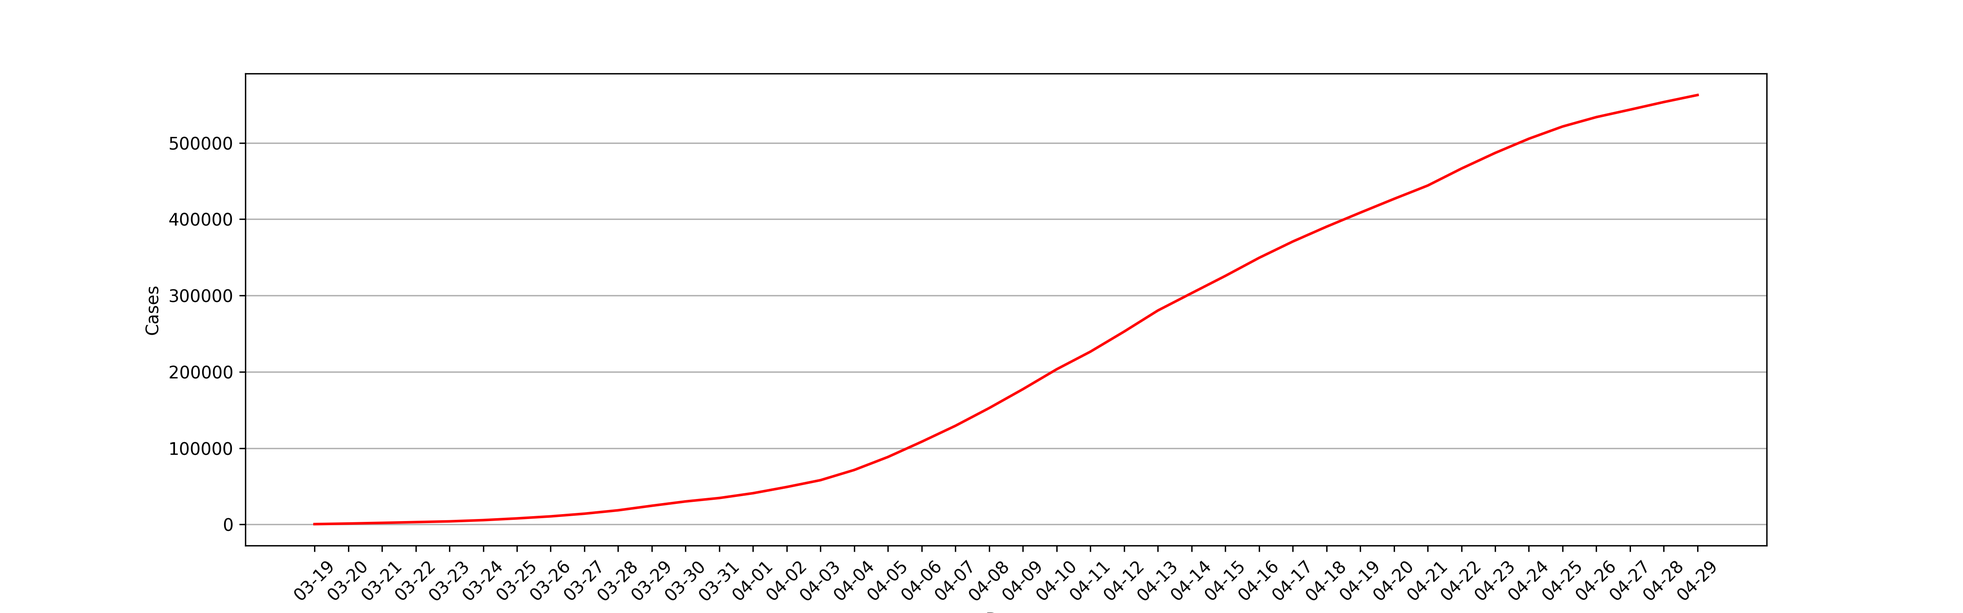
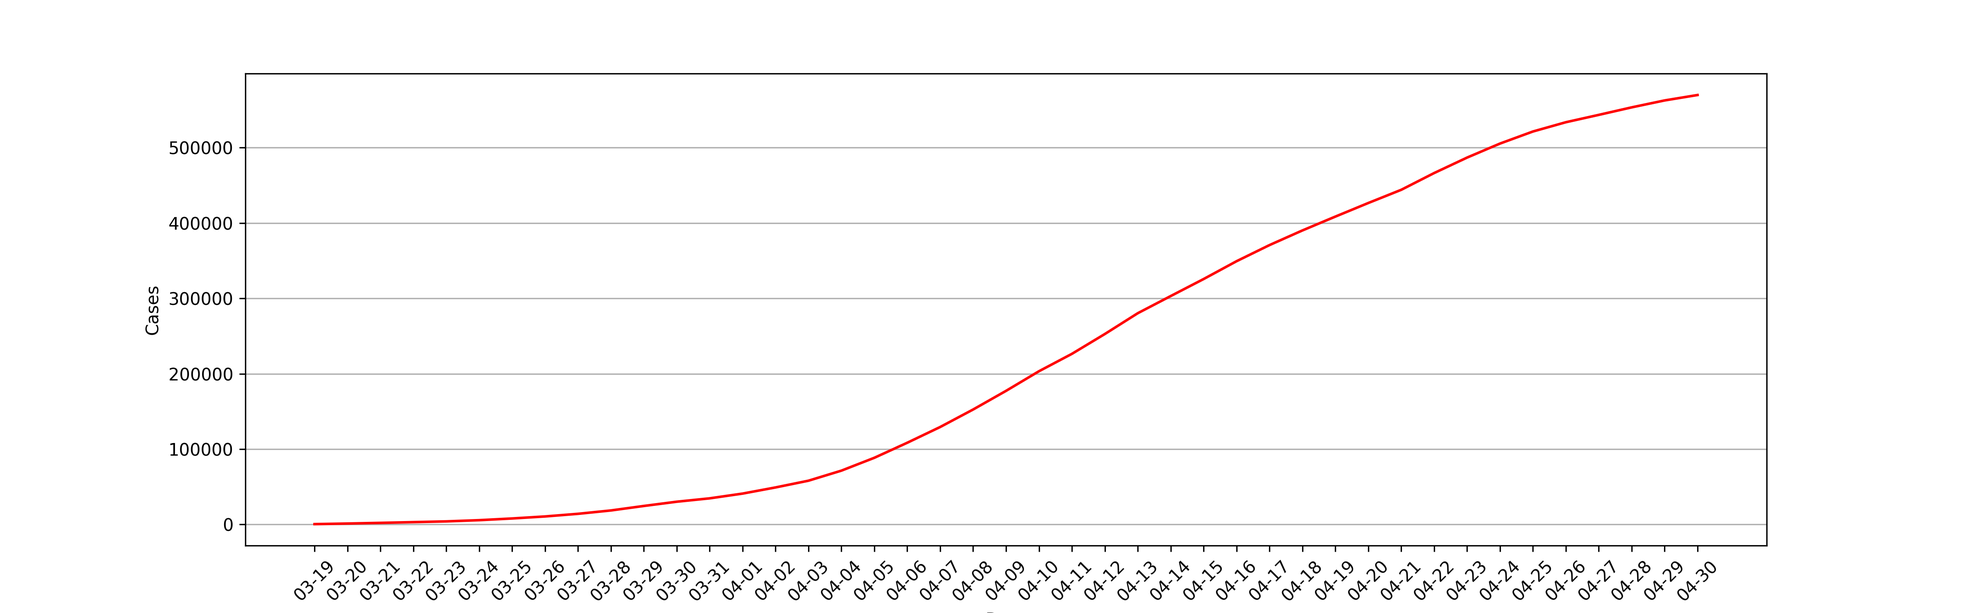
05/01/22 10:40:31

diff --git a/archived_html/a4a961bfa09be8200b3c418c228313e4.html b/archived_html/a4a961bfa09be8200b3c418c228313e4.html
@@ -1,0 +1,151 @@
+<!DOCTYPE html>
+<html lang="zh-Hans">
+<head>
+    <meta charset="utf-8">
+    <meta http-equiv="Content-Security-Policy" content="upgrade-insecure-requests">
+    <meta name="viewport" content="width=device-width, initial-scale=1, maximum-scale=1, user-scalable=no">
+    <meta http-equiv="X-UA-Compatible" content="IE=Edge,chrome=1">
+    <meta http-equiv="Cache-Control" content="no-siteapp" />
+    <meta name="renderer" content="webkit">
+    <meta name="apple-mobile-web-app-capable" content="yes" />
+    <meta name="apple-mobile-web-app-status-bar-style" content="black" />
+    <title>上海2022年4月30日，新增本土新冠肺炎确诊病例788例 新增本土无症状感染者7084例 新增境外输入性新冠肺炎确诊病例1例 新增境外输入性无症状感染者2例__上海市卫生健康委员会</title>
+    <meta name="ColumnDescription" content="新闻发布"><!-- * -->
+    <meta name="ColumnKeywords" content="新闻发布"><!-- * -->
+    <!--<meta name="ColumnType" content=""> * -->
+    <meta name="ColumnName" content="新闻发布"><!-- * -->
+    <meta name="ArticleTitle" content="上海2022年4月30日，新增本土新冠肺炎确诊病例788例 新增本土无症状感染者7084例 新增境外输入性新冠肺炎确诊病例1例 新增境外输入性无症状感染者2例"><!-- * -->
+    <meta name="PubDate" content="2022-05-01"><!-- * -->
+    <meta name="ContentSource" content="上海市卫生健康委员会"><!-- * -->
+    <meta name="Author" content="上海市卫生健康委员会">
+    <meta name="Description" content="" />
+    <meta name="applicable-device" content="pc;mobile">
+    <meta name="location" content="北纬N31°11′51.89″ 东经E121°30′5.42″">
+    <!-- min CSS -->
+    <link rel="stylesheet" href="/assets/css/ETUI/ETUI3.min.css">
+    <!-- Custom CSS -->
+    <link rel="stylesheet" href="/assets/plugin/owl/owl.carousel.css">
+    <link rel="stylesheet" href="/assets/css/style.css">
+    <link rel="stylesheet" href="/assets/css/responsive.css">
+    <link rel="stylesheet" href="/assets/css/ETUI/ETUI3.Utility.css">
+    <!-- icons -->
+    <link rel="shortcut icon" href="/assets/img/ico/favicon.png">
+    <!-- 无障碍工具条 -->
+   <!-- <link rel="stylesheet" href="http://www.shanghai.gov.cn/jhelper_V2.0/jhelper_tool_style.css">
+    <script src="http://www.shanghai.gov.cn/jhelper_V2.0/wsj/jhelper_config.js" charset="gb2312"></script>
+    <noscript>不能读取工具条配置</noscript>
+    <script src="http://www.shanghai.gov.cn/jhelper_V2.0/jhelper_2.0.js" charset="gb2312"></script>
+    <noscript>不能读取工具条</noscript> 
+     -->
+    <script type="text/javascript">
+        function onsubmmit(pageIndex){
+            $("#pageIndex").val(1);
+            $("#searchField").val("0");
+            $("#timeScope").val("0");
+            $("#cmsSearchId").val("0");
+            $("#searchForm").submit();
+        }
+        function onselsubmmit(){
+            $("#pageIndex").val(1);
+            $("#searchForm").submit();
+        }
+        function psubmmit(pageIndex){
+            $("#pageIndex").val(pageIndex);
+            $("#searchForm").submit();
+        }
+        // 栏目
+        function chsubmmit(searchChId){
+            $("#pageIndex").val(1);
+            $("#searchField").val("0");
+            $("#timeScope").val("0");
+            $("#cmsSearchId").val(searchChId);
+            $("#searchForm").submit();
+        }
+    </script> 
+    <!-- 无障碍工具条 -->
+</head>
+<body>
+    <div id="accessNull"></div>
+    <div id="container">
+        <div class="channelinfo hidden"></div>
+        <script src="/assets/js/header.js"></script>
+        <div class="main" id="main">
+            <script src="/assets/js/jiansuo.js"></script>
+            <div class="main-container margin-top-15">
+                <div class="container ">
+                    <div class="relitive">
+                        <ol class="breadcrumb">
+                           <span>您现在所在的位置：</span>
+                            <li><a href="/index.html">首页</a></li>
+                            <li class="active">新闻中心</li>
+                           
+                            <li class="active">新闻发布</li>
+                           
+                        </ol>
+                        <div class="date-se">
+                            <i class="iconfont">&#xe60b;</i> <span id="time"></span>
+                        </div>
+                    </div>
+
+                    <div class="Article">
+                        <h2 id="ivs_title" class="Article-title">上海2022年4月30日，新增本土新冠肺炎确诊病例788例 新增本土无症状感染者7084例 新增境外输入性新冠肺炎确诊病例1例 新增境外输入性无症状感染者2例</br>
+                         <h2 class="Article-title">
+                            <small id="ivs_date" class="Article-time">( 2022-05-01)</small>
+                        </h2>
+                        <div id="ivs_player" style="text-align:center;"></div>
+                        <div id="ivs_content" class="Article_content">
+                           
+                                 <p style="margin-top:10px;text-indent:40px"><span style=";font-family:仿宋_GB2312;font-size:20px"><span style="font-family:仿宋_GB2312">市卫健委今早（</span><span style="font-family:仿宋_GB2312">5月1日）通报：2022年4月30日0—24时，新增本土新冠肺炎确诊病例788和无症状感染者7084例，其中683例确诊病例为既往无症状感染者转归，105例确诊病例和7084例无症状感染者在隔离管控中发现。新增境外输入性新冠肺炎确诊病例1例和无症状感染者2例，均在闭环管控中发现。</span></span></p><p style="margin-top:10px;text-indent:40px"><span style=";font-family:仿宋_GB2312;font-size:20px">2022年4月30日0—24时，新增本土新冠肺炎确诊病例788例，含683例由既往无症状感染者转为确诊病例。新增治愈出院3055例。</span></p><p style="margin-top:10px;text-indent:40px"><strong><span style=";font-family:黑体;font-size:20px"><span style="font-family:黑体">病例</span><span style="font-family:黑体">1—病例15</span></span></strong><span style=";font-family:仿宋_GB2312;font-size:20px">，居住于浦东新区，</span><strong><span style=";font-family:黑体;font-size:20px"><span style="font-family:黑体">病例</span><span style="font-family:黑体">16</span></span></strong><span style=";font-family:仿宋_GB2312;font-size:20px">，居住于黄浦区，</span><strong><span style=";font-family:黑体;font-size:20px"><span style="font-family:黑体">病例</span><span style="font-family:黑体">17—病例26</span></span></strong><span style=";font-family:仿宋_GB2312;font-size:20px">，居住于徐汇区，</span><strong><span style=";font-family:黑体;font-size:20px"><span style="font-family:黑体">病例</span><span style="font-family:黑体">27</span></span></strong><span style=";font-family:仿宋_GB2312;font-size:20px">，居住于长宁区，</span><strong><span style=";font-family:黑体;font-size:20px"><span style="font-family:黑体">病例</span><span style="font-family:黑体">28—病例44</span></span></strong><span style=";font-family:仿宋_GB2312;font-size:20px">，居住于静安区，</span><strong><span style=";font-family:黑体;font-size:20px"><span style="font-family:黑体">病例</span><span style="font-family:黑体">45—病例49</span></span></strong><span style=";font-family:仿宋_GB2312;font-size:20px">，居住于普陀区，</span><strong><span style=";font-family:黑体;font-size:20px"><span style="font-family:黑体">病例</span><span style="font-family:黑体">50—病例60</span></span></strong><span style=";font-family:仿宋_GB2312;font-size:20px">，居住于虹口区，</span><strong><span style=";font-family:黑体;font-size:20px"><span style="font-family:黑体">病例</span><span style="font-family:黑体">61、病例62</span></span></strong><span style=";font-family:仿宋_GB2312;font-size:20px">，居住于杨浦区，</span><strong><span style=";font-family:黑体;font-size:20px"><span style="font-family:黑体">病例</span><span style="font-family:黑体">63—病例65</span></span></strong><span style=";font-family:仿宋_GB2312;font-size:20px">，居住于闵行区，</span><strong><span style=";font-family:黑体;font-size:20px"><span style="font-family:黑体">病例</span><span style="font-family:黑体">66—病例89</span></span></strong><span style=";font-family:仿宋_GB2312;font-size:20px">，居住于宝山区，</span><strong><span style=";font-family:黑体;font-size:20px"><span style="font-family:黑体">病例</span><span style="font-family:黑体">90—病例92</span></span></strong><span style=";font-family:仿宋_GB2312;font-size:20px">，居住于嘉定区，</span><strong><span style=";font-family:黑体;font-size:20px"><span style="font-family:黑体">病例</span><span style="font-family:黑体">93—病例102</span></span></strong><span style=";font-family:仿宋_GB2312;font-size:20px">，居住于松江区，</span><strong><span style=";font-family:黑体;font-size:20px"><span style="font-family:黑体">病例</span><span style="font-family:黑体">103、病例104</span></span></strong><span style=";font-family:仿宋_GB2312;font-size:20px">，居住于青浦区，</span><strong><span style=";font-family:黑体;font-size:20px"><span style="font-family:黑体">病例</span><span style="font-family:黑体">105</span></span></strong><span style=";font-family:仿宋_GB2312;font-size:20px">，居住于奉贤区，均为本市闭环隔离管控人员，其间新冠病毒核酸检测结果异常，经疾控中心复核结果为阳性。经市级专家会诊，综合流行病学史、临床症状、实验室检测和影像学检查结果等，诊断为确诊病例。</span></p><p style="margin-top:10px;text-indent:40px"><strong><span style=";font-family:黑体;font-size:20px"><span style="font-family:黑体">病例</span><span style="font-family:黑体">106—病例127</span></span></strong><span style=";font-family:仿宋_GB2312;font-size:20px">，居住于浦东新区，</span><strong><span style=";font-family:黑体;font-size:20px"><span style="font-family:黑体">病例</span><span style="font-family:黑体">128—病例236</span></span></strong><span style=";font-family:仿宋_GB2312;font-size:20px">，居住于黄浦区，</span><strong><span style=";font-family:黑体;font-size:20px"><span style="font-family:黑体">病例</span><span style="font-family:黑体">237—病例362</span></span></strong><span style=";font-family:仿宋_GB2312;font-size:20px">，居住于徐汇区，</span><strong><span style=";font-family:黑体;font-size:20px"><span style="font-family:黑体">病例</span><span style="font-family:黑体">363—病例401</span></span></strong><span style=";font-family:仿宋_GB2312;font-size:20px">，居住于长宁区，</span><strong><span style=";font-family:黑体;font-size:20px"><span style="font-family:黑体">病例</span><span style="font-family:黑体">402—病例494</span></span></strong><span style=";font-family:仿宋_GB2312;font-size:20px">，居住于静安区，</span><strong><span style=";font-family:黑体;font-size:20px"><span style="font-family:黑体">病例</span><span style="font-family:黑体">495—病例516</span></span></strong><span style=";font-family:仿宋_GB2312;font-size:20px">，居住于普陀区，</span><strong><span style=";font-family:黑体;font-size:20px"><span style="font-family:黑体">病例</span><span style="font-family:黑体">517—病例552</span></span></strong><span style=";font-family:仿宋_GB2312;font-size:20px">，居住于虹口区，</span><strong><span style=";font-family:黑体;font-size:20px"><span style="font-family:黑体">病例</span><span style="font-family:黑体">553—病例572</span></span></strong><span style=";font-family:仿宋_GB2312;font-size:20px">，居住于杨浦区，</span><strong><span style=";font-family:黑体;font-size:20px"><span style="font-family:黑体">病例</span><span style="font-family:黑体">573—病例622</span></span></strong><span style=";font-family:仿宋_GB2312;font-size:20px">，居住于闵行区，</span><strong><span style=";font-family:黑体;font-size:20px"><span style="font-family:黑体">病例</span><span style="font-family:黑体">623—病例710</span></span></strong><span style=";font-family:仿宋_GB2312;font-size:20px">，居住于宝山区，</span><strong><span style=";font-family:黑体;font-size:20px"><span style="font-family:黑体">病例</span><span style="font-family:黑体">711—病例748</span></span></strong><span style=";font-family:仿宋_GB2312;font-size:20px">，居住于嘉定区，</span><strong><span style=";font-family:黑体;font-size:20px"><span style="font-family:黑体">病例</span><span style="font-family:黑体">749—病例767</span></span></strong><span style=";font-family:仿宋_GB2312;font-size:20px">，居住于松江区，</span><strong><span style=";font-family:黑体;font-size:20px"><span style="font-family:黑体">病例</span><span style="font-family:黑体">768—病例786</span></span></strong><span style=";font-family:仿宋_GB2312;font-size:20px">，居住于青浦区，</span><strong><span style=";font-family:黑体;font-size:20px"><span style="font-family:黑体">病例</span><span style="font-family:黑体">787</span></span></strong><span style=";font-family:仿宋_GB2312;font-size:20px">，居住于奉贤区，</span><strong><span style=";font-family:黑体;font-size:20px"><span style="font-family:黑体">病例</span><span style="font-family:黑体">788</span></span></strong><span style=";font-family:仿宋_GB2312;font-size:20px">，居住于崇明区，为此前报告的本土无症状感染者。经市级专家会诊，综合流行病学史、临床症状、实验室检测和影像学检查结果等，诊断为确诊病例。</span></p><p style="margin-top:10px;text-indent:40px"><span style=";font-family:仿宋_GB2312;font-size:20px">2022年4月30日0—24时，新增本土死亡38例。平均年龄80.9岁，最小年龄50岁，最大年龄97岁。38位患者均有较为严重的急慢性基础疾病，包括急性心肌梗死、肺栓塞、冠心病、扩张性心肌病、心功能不全IV级、心律失常、高血压3级（极高危）、慢性阻塞性肺病、脑梗死及后遗症、阿尔兹海默症、糖尿病、尿毒症、肝硬化失代偿期、晚期恶性肿瘤等。患者入院后，原发疾病加重，经抢救无效死亡。死亡的直接原因为原发基础疾病。</span></p><p style="margin-top:10px;text-indent:40px"><span style=";font-family:仿宋_GB2312;font-size:20px">2022年4月30日0—24时，新增本土无症状感染者7084例。</span></p><p style="text-indent:40px"><strong><span style=";font-family:黑体;font-size:20px"><span style="font-family:黑体">无症状感染者</span><span style="font-family:黑体">1—无症状感染者1588</span></span></strong><span style=";font-family:仿宋_GB2312;font-size:20px">，居住于浦东新区，</span><strong><span style=";font-family:黑体;font-size:20px"><span style="font-family:黑体">无症状感染者</span><span style="font-family:黑体">1589—无症状感染者2634</span></span></strong><span style=";font-family:仿宋_GB2312;font-size:20px">，居住于黄浦区，</span><strong><span style=";font-family:黑体;font-size:20px"><span style="font-family:黑体">无症状感染者</span><span style="font-family:黑体">2635—无症状感染者2986</span></span></strong><span style=";font-family:仿宋_GB2312;font-size:20px">，居住于徐汇区，</span><strong><span style=";font-family:黑体;font-size:20px"><span style="font-family:黑体">无症状感染者</span><span style="font-family:黑体">2987—无症状感染者3127</span></span></strong><span style=";font-family:仿宋_GB2312;font-size:20px">，居住于长宁区，</span><strong><span style=";font-family:黑体;font-size:20px"><span style="font-family:黑体">无症状感染者</span><span style="font-family:黑体">3128—无症状感染者4013</span></span></strong><span style=";font-family:仿宋_GB2312;font-size:20px">，居住于静安区，</span><strong><span style=";font-family:黑体;font-size:20px"><span style="font-family:黑体">无症状感染者</span><span style="font-family:黑体">4014—无症状感染者4100</span></span></strong><span style=";font-family:仿宋_GB2312;font-size:20px">，居住于普陀区，</span><strong><span style=";font-family:黑体;font-size:20px"><span style="font-family:黑体">无症状感染者</span><span style="font-family:黑体">4101—无症状感染者4644</span></span></strong><span style=";font-family:仿宋_GB2312;font-size:20px">，居住于虹口区，</span><strong><span style=";font-family:黑体;font-size:20px"><span style="font-family:黑体">无症状感染者</span><span style="font-family:黑体">4645—无症状感染者4964</span></span></strong><span style=";font-family:仿宋_GB2312;font-size:20px">，居住于杨浦区，</span><strong><span style=";font-family:黑体;font-size:20px"><span style="font-family:黑体">无症状感染者</span><span style="font-family:黑体">4965—无症状感染者5342</span></span></strong><span style=";font-family:仿宋_GB2312;font-size:20px">，居住于闵行区，</span><strong><span style=";font-family:黑体;font-size:20px"><span style="font-family:黑体">无症状感染者</span><span style="font-family:黑体">5343—无症状感染者6363</span></span></strong><span style=";font-family:仿宋_GB2312;font-size:20px">，居住于宝山区，</span><strong><span style=";font-family:黑体;font-size:20px"><span style="font-family:黑体">无症状感染者</span><span style="font-family:黑体">6364—无症状感染者6581</span></span></strong><span style=";font-family:仿宋_GB2312;font-size:20px">，居住于嘉定区，</span><strong><span style=";font-family:黑体;font-size:20px"><span style="font-family:黑体">无症状感染者</span><span style="font-family:黑体">6582—无症状感染者6592</span></span></strong><span style=";font-family:仿宋_GB2312;font-size:20px">，居住于金山区，</span><strong><span style=";font-family:黑体;font-size:20px"><span style="font-family:黑体">无症状感染者</span><span style="font-family:黑体">6593—无症状感染者6668</span></span></strong><span style=";font-family:仿宋_GB2312;font-size:20px">，居住于松江区，</span><strong><span style=";font-family:黑体;font-size:20px"><span style="font-family:黑体">无症状感染者</span><span style="font-family:黑体">6669—无症状感染者6775</span></span></strong><span style=";font-family:仿宋_GB2312;font-size:20px">，居住于青浦区，</span><strong><span style=";font-family:黑体;font-size:20px"><span style="font-family:黑体">无症状感染者</span><span style="font-family:黑体">6776、无症状感染者6777</span></span></strong><span style=";font-family:仿宋_GB2312;font-size:20px">，居住于奉贤区，</span><strong><span style=";font-family:黑体;font-size:20px"><span style="font-family:黑体">无症状感染者</span><span style="font-family:黑体">6778—无症状感染者7084</span></span></strong><span style=";font-family:仿宋_GB2312;font-size:20px">，居住于崇明区，</span><span style=";font-family:仿宋_GB2312;font-size:20px">均为本市闭环隔离管控人员，其间新冠病毒核酸检测结果异常，经疾控中心复核结果为阳性，诊断为无症状感染者。</span></p><p style="text-indent:40px"><span style=";font-family:仿宋_GB2312;font-size:20px">2022年4月30日0—24时，通过口岸联防联控机制，报告1例新增境外输入性新冠肺炎确诊病例。新增治愈出院1例，来自加拿大。</span></p><p style="text-indent:40px"><strong><span style="font-family: 黑体;font-size: 20px">该病例</span></strong><span style=";font-family:仿宋_GB2312;font-size:20px"><span style="font-family:仿宋_GB2312">为美国籍，在加拿大生活，自加拿大出发，于</span><span style="font-family:仿宋_GB2312">2022年4月15日抵达上海浦东国际机场，入关后即被集中隔离观察，解除隔离前出现症状，即送指定医疗机构隔离排查。经专家组会诊，综合流行病学史、临床症状、实验室检测和影像学检查结果等，诊断为确诊病例。</span></span></p><p style="text-indent:40px"><span style=";font-family:仿宋_GB2312;font-size:20px">该境外输入性确诊病例已转至定点医疗机构救治，同航班密切接触者此前均已落实集中隔离观察。</span></p><p style="text-indent:40px"><span style=";font-family:仿宋_GB2312;font-size:20px">2022年4月30日0—24时，新增境外输入性无症状感染者2例。</span></p><p style="text-indent:40px"><strong><span style="font-family: 黑体;font-size: 20px"><span style="font-family:黑体">无症状感染者</span><span style="font-family:黑体">1</span></span></strong><span style=";font-family:仿宋_GB2312;font-size:20px"><span style="font-family:仿宋_GB2312">为中国籍，在加拿大留学，自加拿大出发，于</span><span style="font-family:仿宋_GB2312">2022年4月25日抵达上海浦东国际机场，入关后即被集中隔离观察，其间例行核酸检测异常。经排查，区疾控中心新冠病毒核酸检测结果为阳性。综合流行病学史、临床症状、实验室检测和影像学检查结果等，诊断为无症状感染者。</span></span></p><p style="text-indent:40px"><strong><span style="font-family: 黑体;font-size: 20px"><span style="font-family:黑体">无症状感染者</span><span style="font-family:黑体">2</span></span></strong><span style=";font-family:仿宋_GB2312;font-size:20px"><span style="font-family:仿宋_GB2312">为中国籍，在英国留学，自英国出发，经丹麦转机，于</span><span style="font-family:仿宋_GB2312">2022年4月27日抵达上海浦东国际机场，入关后即被集中隔离观察，其间例行核酸检测异常。经排查，区疾控中心新冠病毒核酸检测结果为阳性。综合流行病学史、临床症状、实验室检测和影像学检查结果等，诊断为无症状感染者。</span></span></p><p style="text-indent:40px"><span style=";font-family:仿宋_GB2312;font-size:20px">2例境外输入性无症状感染者已转至定点医疗机构医学观察，同航班密切接触者此前均已落实集中隔离观察。</span></p><p style="text-indent:40px"><span style=";font-family:仿宋_GB2312;font-size:20px">2022年4月30日0—24时，解除医学观察无症状感染者16023例，其中本土无症状感染者16021例，境外输入性无症状感染者2例。</span></p><p style="margin-top:10px;text-indent:40px;vertical-align:baseline"><span style=";font-family:仿宋_GB2312;font-size:20px">2022年2月26日0时至2022年4月30日24时，累计本土确诊53364例，治愈出院32273例，在院治疗20669例（其中重型342例，危重型61例），死亡422例。现有待排查的疑似病例0例。</span></p><p style="margin-top:10px;text-indent:40px;vertical-align:baseline"><span style=";font-family:仿宋_GB2312;font-size:20px"><span style="font-family:仿宋_GB2312">截至</span><span style="font-family:仿宋_GB2312">2022年4月30日24时，累计境外输入性确诊病例4</span></span><span style=";font-family:仿宋_GB2312;font-size:20px">5</span><span style=";font-family:仿宋_GB2312;font-size:20px">83例，出院4578例，在院治疗5例。现有待排查的疑似病例</span><span style=";font-family:仿宋_GB2312;font-size:20px">0</span><span style=";font-family:仿宋_GB2312;font-size:20px">例。</span></p><p style="margin-top:10px;vertical-align:baseline"><span style=";font-family:仿宋_GB2312;font-size:20px">&nbsp;</span></p><p style="margin-top:10px;vertical-align:baseline"><span style=";font-family:仿宋_GB2312;font-size:20px">&nbsp;</span></p><table cellspacing="0" width="544"><tbody><tr style="height:24px" class="firstRow"><td width="379" valign="center" colspan="2" style="padding: 0px 7px; border-width: 1px; border-color: windowtext; border-style: solid;"><p style="text-align:center;vertical-align:baseline"><strong><span style="font-family: 仿宋_GB2312;font-size: 19px">区域</span></strong></p></td><td width="165" valign="center" style="padding: 0px 7px; border-width: 1px; border-color: windowtext; border-style: solid;"><p style="text-align:center;vertical-align:baseline"><strong><span style="font-family: 仿宋_GB2312;font-size: 19px">在院治疗确诊病例</span></strong></p></td></tr><tr style="height:42px"><td width="213" valign="center" rowspan="4" style="padding: 0px 7px; border-width: 1px; border-left-color: windowtext; border-right-color: windowtext; border-style: solid; border-top-color: initial; border-bottom-color: windowtext;"><p style="text-align:center;vertical-align:baseline"><span style="font-family:仿宋_GB2312;font-size:19px">境外输入人员</span></p><p style="text-align:center;vertical-align:baseline"><span style="font-family:仿宋_GB2312;font-size:19px">（按输入地分）</span></p></td><td width="165" valign="top" style="padding: 0px 7px; border-width: 1px; border-style: solid; border-left-color: initial; border-right-color: windowtext; border-top-color: initial; border-bottom-color: windowtext;"><p style=";text-align:center;vertical-align:middle"><span style="font-family: 仿宋_GB2312;font-size: 19px">加拿大</span></p></td><td width="165" valign="top" style="padding: 0px 7px; border-width: 1px; border-style: solid; border-left-color: initial; border-right-color: windowtext; border-top-color: windowtext; border-bottom-color: windowtext;"><p style=";text-align:center;vertical-align:middle"><span style="font-family: 仿宋_GB2312;font-size: 19px">2</span></p></td></tr><tr style="height:33px"><td width="165" valign="top" style="padding: 0px 7px; border-width: 1px; border-style: solid; border-left-color: initial; border-right-color: windowtext; border-top-color: initial; border-bottom-color: windowtext;"><p style=";text-align:center;vertical-align:middle"><span style="font-family: 仿宋_GB2312;font-size: 19px">法国</span></p></td><td width="165" valign="top" style="padding: 0px 7px; border-width: 1px; border-style: solid; border-left-color: initial; border-right-color: windowtext; border-top-color: initial; border-bottom-color: windowtext;"><p style=";text-align:center;vertical-align:middle"><span style="font-family: 仿宋_GB2312;font-size: 19px">1</span></p></td></tr><tr style="height:33px"><td width="165" valign="top" style="padding: 0px 7px; border-width: 1px; border-style: solid; border-left-color: initial; border-right-color: windowtext; border-top-color: initial; border-bottom-color: windowtext;"><p style=";text-align:center;vertical-align:middle"><span style="font-family: 仿宋_GB2312;font-size: 19px">乌干达</span></p></td><td width="165" valign="top" style="padding: 0px 7px; border-width: 1px; border-style: solid; border-left-color: initial; border-right-color: windowtext; border-top-color: initial; border-bottom-color: windowtext;"><p style=";text-align:center;vertical-align:middle"><span style="font-family: 仿宋_GB2312;font-size: 19px">1</span></p></td></tr><tr style="height:33px"><td width="165" valign="top" style="padding: 0px 7px; border-width: 1px; border-style: solid; border-left-color: initial; border-right-color: windowtext; border-top-color: initial; border-bottom-color: windowtext;"><p style=";text-align:center;vertical-align:middle"><span style="font-family: 仿宋_GB2312;font-size: 19px">香港特别行政区</span></p></td><td width="165" valign="top" style="padding: 0px 7px; border-width: 1px; border-style: solid; border-left-color: initial; border-right-color: windowtext; border-top-color: initial; border-bottom-color: windowtext;"><p style=";text-align:center;vertical-align:middle"><span style="font-family: 仿宋_GB2312;font-size: 19px">1</span></p></td></tr><tr style="height:33px"><td width="213" valign="center" rowspan="16" style="padding: 0px 7px; border-width: 1px; border-left-color: windowtext; border-right-color: windowtext; border-style: solid; border-top-color: initial; border-bottom-color: windowtext;"><p style="text-indent:19px;vertical-align:baseline"><span style="font-family:仿宋_GB2312;font-size:19px">本市居住或工作地</span></p></td><td width="165" valign="center" style="padding: 0px 7px; border-width: 1px; border-left-color: windowtext; border-right-color: windowtext; border-style: solid; border-top-color: initial; border-bottom-color: windowtext;"><p style=";text-align:center;vertical-align:middle"><span style="font-family: 仿宋_GB2312;font-size: 19px">浦东</span></p></td><td width="165" valign="center" style="padding: 0px 7px; border-width: 1px; border-left-color: windowtext; border-right-color: windowtext; border-style: solid; border-top-color: initial; border-bottom-color: windowtext;"><p style="text-align:center"><span style="font-family: 仿宋_GB2312;font-size: 19px">3490</span></p></td></tr><tr style="height:33px"><td width="165" valign="center" style="padding: 0px 7px; border-width: 1px; border-left-color: windowtext; border-right-color: windowtext; border-style: solid; border-top-color: initial; border-bottom-color: windowtext;"><p style=";text-align:center;vertical-align:middle"><span style="font-family: 仿宋_GB2312;font-size: 19px">黄浦</span></p></td><td width="165" valign="center" style="padding: 0px 7px; border-width: 1px; border-left-color: windowtext; border-right-color: windowtext; border-style: solid; border-top-color: initial; border-bottom-color: windowtext;"><p style="text-align:center"><span style="font-family: 仿宋_GB2312;font-size: 19px">3043</span></p></td></tr><tr style="height:33px"><td width="165" valign="center" style="padding: 0px 7px; border-width: 1px; border-left-color: windowtext; border-right-color: windowtext; border-style: solid; border-top-color: initial; border-bottom-color: windowtext;"><p style=";text-align:center;vertical-align:middle"><span style="font-family: 仿宋_GB2312;font-size: 19px">徐汇</span></p></td><td width="165" valign="center" style="padding: 0px 7px; border-width: 1px; border-left-color: windowtext; border-right-color: windowtext; border-style: solid; border-top-color: initial; border-bottom-color: windowtext;"><p style="text-align:center"><span style="font-family: 仿宋_GB2312;font-size: 19px">2641</span></p></td></tr><tr style="height:33px"><td width="165" valign="center" style="padding: 0px 7px; border-width: 1px; border-left-color: windowtext; border-right-color: windowtext; border-style: solid; border-top-color: initial; border-bottom-color: windowtext;"><p style=";text-align:center;vertical-align:middle"><span style="font-family: 仿宋_GB2312;font-size: 19px">长宁</span></p></td><td width="165" valign="center" style="padding: 0px 7px; border-width: 1px; border-left-color: windowtext; border-right-color: windowtext; border-style: solid; border-top-color: initial; border-bottom-color: windowtext;"><p style="text-align:center"><span style="font-family: 仿宋_GB2312;font-size: 19px">1132</span></p></td></tr><tr style="height:33px"><td width="165" valign="center" style="padding: 0px 7px; border-width: 1px; border-left-color: windowtext; border-right-color: windowtext; border-style: solid; border-top-color: initial; border-bottom-color: windowtext;"><p style=";text-align:center;vertical-align:middle"><span style="font-family: 仿宋_GB2312;font-size: 19px">静安</span></p></td><td width="165" valign="center" style="padding: 0px 7px; border-width: 1px; border-left-color: windowtext; border-right-color: windowtext; border-style: solid; border-top-color: initial; border-bottom-color: windowtext;"><p style="text-align:center"><span style="font-family: 仿宋_GB2312;font-size: 19px">1735</span></p></td></tr><tr style="height:33px"><td width="165" valign="center" style="padding: 0px 7px; border-width: 1px; border-left-color: windowtext; border-right-color: windowtext; border-style: solid; border-top-color: initial; border-bottom-color: windowtext;"><p style=";text-align:center;vertical-align:middle"><span style="font-family: 仿宋_GB2312;font-size: 19px">普陀</span></p></td><td width="165" valign="center" style="padding: 0px 7px; border-width: 1px; border-left-color: windowtext; border-right-color: windowtext; border-style: solid; border-top-color: initial; border-bottom-color: windowtext;"><p style="text-align:center"><span style="font-family: 仿宋_GB2312;font-size: 19px">800</span></p></td></tr><tr style="height:33px"><td width="165" valign="center" style="padding: 0px 7px; border-width: 1px; border-left-color: windowtext; border-right-color: windowtext; border-style: solid; border-top-color: initial; border-bottom-color: windowtext;"><p style=";text-align:center;vertical-align:middle"><span style="font-family: 仿宋_GB2312;font-size: 19px">虹口</span></p></td><td width="165" valign="center" style="padding: 0px 7px; border-width: 1px; border-left-color: windowtext; border-right-color: windowtext; border-style: solid; border-top-color: initial; border-bottom-color: windowtext;"><p style="text-align:center"><span style="font-family: 仿宋_GB2312;font-size: 19px">1906</span></p></td></tr><tr style="height:33px"><td width="165" valign="center" style="padding: 0px 7px; border-width: 1px; border-left-color: windowtext; border-right-color: windowtext; border-style: solid; border-top-color: initial; border-bottom-color: windowtext;"><p style=";text-align:center;vertical-align:middle"><span style="font-family: 仿宋_GB2312;font-size: 19px">杨浦</span></p></td><td width="165" valign="center" style="padding: 0px 7px; border-width: 1px; border-left-color: windowtext; border-right-color: windowtext; border-style: solid; border-top-color: initial; border-bottom-color: windowtext;"><p style="text-align:center"><span style="font-family: 仿宋_GB2312;font-size: 19px">1087</span></p></td></tr><tr style="height:33px"><td width="165" valign="center" style="padding: 0px 7px; border-width: 1px; border-left-color: windowtext; border-right-color: windowtext; border-style: solid; border-top-color: initial; border-bottom-color: windowtext;"><p style=";text-align:center;vertical-align:middle"><span style="font-family: 仿宋_GB2312;font-size: 19px">闵行</span></p></td><td width="165" valign="center" style="padding: 0px 7px; border-width: 1px; border-left-color: windowtext; border-right-color: windowtext; border-style: solid; border-top-color: initial; border-bottom-color: windowtext;"><p style="text-align:center"><span style="font-family: 仿宋_GB2312;font-size: 19px">1977</span></p></td></tr><tr style="height:33px"><td width="165" valign="center" style="padding: 0px 7px; border-width: 1px; border-left-color: windowtext; border-right-color: windowtext; border-style: solid; border-top-color: initial; border-bottom-color: windowtext;"><p style=";text-align:center;vertical-align:middle"><span style="font-family: 仿宋_GB2312;font-size: 19px">宝山</span></p></td><td width="165" valign="center" style="padding: 0px 7px; border-width: 1px; border-left-color: windowtext; border-right-color: windowtext; border-style: solid; border-top-color: initial; border-bottom-color: windowtext;"><p style="text-align:center"><span style="font-family: 仿宋_GB2312;font-size: 19px">1367</span></p></td></tr><tr style="height:33px"><td width="165" valign="center" style="padding: 0px 7px; border-width: 1px; border-left-color: windowtext; border-right-color: windowtext; border-style: solid; border-top-color: initial; border-bottom-color: windowtext;"><p style=";text-align:center;vertical-align:middle"><span style="font-family: 仿宋_GB2312;font-size: 19px">嘉定</span></p></td><td width="165" valign="center" style="padding: 0px 7px; border-width: 1px; border-left-color: windowtext; border-right-color: windowtext; border-style: solid; border-top-color: initial; border-bottom-color: windowtext;"><p style="text-align:center"><span style="font-family: 仿宋_GB2312;font-size: 19px">370</span></p></td></tr><tr style="height:33px"><td width="165" valign="center" style="padding: 0px 7px; border-width: 1px; border-left-color: windowtext; border-right-color: windowtext; border-style: solid; border-top-color: initial; border-bottom-color: windowtext;"><p style=";text-align:center;vertical-align:middle"><span style="font-family: 仿宋_GB2312;font-size: 19px">金山</span></p></td><td width="165" valign="center" style="padding: 0px 7px; border-width: 1px; border-left-color: windowtext; border-right-color: windowtext; border-style: solid; border-top-color: initial; border-bottom-color: windowtext;"><p style="text-align:center"><span style="font-family: 仿宋_GB2312;font-size: 19px">7</span></p></td></tr><tr style="height:33px"><td width="165" valign="center" style="padding: 0px 7px; border-width: 1px; border-left-color: windowtext; border-right-color: windowtext; border-style: solid; border-top-color: initial; border-bottom-color: windowtext;"><p style=";text-align:center;vertical-align:middle"><span style="font-family: 仿宋_GB2312;font-size: 19px">松江</span></p></td><td width="165" valign="center" style="padding: 0px 7px; border-width: 1px; border-left-color: windowtext; border-right-color: windowtext; border-style: solid; border-top-color: initial; border-bottom-color: windowtext;"><p style="text-align:center"><span style="font-family: 仿宋_GB2312;font-size: 19px">115</span></p></td></tr><tr style="height:33px"><td width="165" valign="center" style="padding: 0px 7px; border-width: 1px; border-left-color: windowtext; border-right-color: windowtext; border-style: solid; border-top-color: initial; border-bottom-color: windowtext;"><p style=";text-align:center;vertical-align:middle"><span style="font-family: 仿宋_GB2312;font-size: 19px">青浦</span></p></td><td width="165" valign="center" style="padding: 0px 7px; border-width: 1px; border-left-color: windowtext; border-right-color: windowtext; border-style: solid; border-top-color: initial; border-bottom-color: windowtext;"><p style="text-align:center"><span style="font-family: 仿宋_GB2312;font-size: 19px">599</span></p></td></tr><tr style="height:33px"><td width="165" valign="center" style="padding: 0px 7px; border-width: 1px; border-left-color: windowtext; border-right-color: windowtext; border-style: solid; border-top-color: initial; border-bottom-color: windowtext;"><p style=";text-align:center;vertical-align:middle"><span style="font-family: 仿宋_GB2312;font-size: 19px">奉贤</span></p></td><td width="165" valign="center" style="padding: 0px 7px; border-width: 1px; border-left-color: windowtext; border-right-color: windowtext; border-style: solid; border-top-color: initial; border-bottom-color: windowtext;"><p style="text-align:center"><span style="font-family: 仿宋_GB2312;font-size: 19px">95</span></p></td></tr><tr style="height:33px"><td width="165" valign="center" style="padding: 0px 7px; border-width: 1px; border-left-color: windowtext; border-right-color: windowtext; border-style: solid; border-top-color: initial; border-bottom-color: windowtext;"><p style=";text-align:center;vertical-align:middle"><span style="font-family: 仿宋_GB2312;font-size: 19px">崇明</span></p></td><td width="165" valign="center" style="padding: 0px 7px; border-width: 1px; border-left-color: windowtext; border-right-color: windowtext; border-style: solid; border-top-color: initial; border-bottom-color: windowtext;"><p style="text-align:center"><span style="font-family: 仿宋_GB2312;font-size: 19px">305</span></p></td></tr><tr style="height:33px"><td width="379" valign="center" colspan="2" style="padding: 0px 7px; border-width: 1px; border-left-color: windowtext; border-right-color: windowtext; border-style: solid; border-top-color: initial; border-bottom-color: windowtext;"><p style="text-align:center;vertical-align:baseline"><span style="font-family:仿宋_GB2312;font-size:19px">合计</span></p></td><td width="165" valign="center" style="padding: 0px 7px; border-width: 1px; border-left-color: windowtext; border-right-color: windowtext; border-style: solid; border-top-color: initial; border-bottom-color: windowtext;"><p style="text-align:center;vertical-align:baseline"><span style="font-family:仿宋_GB2312;font-size:19px">20674</span></p></td></tr></tbody></table><p><br/></p>
+                        </div>
+                        </div>
+                    </div>
+                </div>
+            </div>
+        </div>
+        <script src="/assets/js/footer.js"></script>
+        </div>
+    <!--Main JS-->
+    <script src="/assets/js/ETUI/jquery.min.1.12.4.js"></script>
+    <!--[if lt IE 9]>
+    <script src="/assets/js/ETUI/html5shiv.min.js"></script>
+    <script src="/assets/js/ETUI/respond.min.js"></script>
+    <![endif]-->
+    <script src="/assets/js/ETUI/ETUI3.min.js"></script>
+    <script src="/assets/plugin/owl/owl.carousel.min.js"></script>
+    <!--Custom JS-->
+    <script src="/assets/js/main.js"></script>
+    <script src="/assets/js/language.js"></script>
+    <!-- <script src="/assets/js/Time.js"></script> -->
+    <!--
+  <script src="/assets/js/jhelper_config.js" charset="gb2312"></script>
+<script type="text/javascript" src="https://jhelper.shanghai.gov.cn/publicJS/3100000010.js"></script>
+-->
+<script src="https://wsjkw.sh.gov.cn/wza/jhelper_config.js" charset="gb2312"></script>
+    <script type="text/javascript" src="http://jhelper.shanghai.gov.cn/publicJS/3100000010.js"></script>
+   <!-- <script type="text/javascript" src="http://voice.ewdcloud.com.cn:9292/js/ew_msc.js"></script>-->
+    <script>
+        jQuery(document).ready(function () {
+            Main.init();
+        });
+        jQuery(document).ready(function () {
+	        getToolbarMod();
+        });
+    </script>
+    <script>
+        function currentTime(){
+            var d = new Date(),str = '';
+            str += d.getFullYear()+'年';
+            str  += d.getMonth() + 1+'月';
+            str  += d.getDate()+'日';
+            var a = new Array("日", "一", "二", "三", "四", "五", "六");
+            var week = new Date().getDay();
+            var tody = "星期"+ a[week];
+            str +=' ';
+            str  += tody ;
+            return str;
+
+        }
+        setInterval(function(){$('#time').html(currentTime)},1000);
+    </script>
+</body>
+</html>

diff --git a/README.md b/README.md
@@ -2,7 +2,7 @@
 
 No entire COVID-19 statistics data of the Shanghai lockdown period can be found in the [JHU CSSE COVID-19 Data](https://github.com/CSSEGISandData/COVID-19) project. Data of project [shanghai-lockdown-covid-19](https://github.com/lewangdev/shanghai-lockdown-covid-19) is crawled from [Shanghai Government](https://wsjkw.sh.gov.cn/yqtb/)'s public website, began on 19/03/2022, the date of my place lockdown.
 
-Shanghai is divided by the Huangpu River into two parts, the Pudong area, and the Puxi area. Pudong's lockdown began on 28/03/2022 firstly, and Puxi started its shutdown on 01/04/2022. Most areas of Shanghai remain locked down till 30/04/2022. 
+Shanghai is divided by the Huangpu River into two parts, the Pudong area, and the Puxi area. Pudong's lockdown began on 28/03/2022 firstly, and Puxi started its shutdown on 01/04/2022. Most areas of Shanghai remain locked down till 01/05/2022. 
 
 This project will be updated every day before Shanghai reopens. JSON files with places can be found in directory [data](https://github.com/lewangdev/shanghai-lockdown-covid-19/tree/main/data).
 
@@ -14,6 +14,7 @@ This project will be updated every day before Shanghai reopens. JSON files with 
 
 | Date/Details | New Cases  | Deaths | Confirmed Cases | Asymptomatic Cases | A2C Cases(*) |
 | ---- | ---------- | ---------- | ---------------- | ----------------- | ---------------------------- |
+| 2022-04-30 | 7189 | 38 | 788 | 7084 | 683 |
 | 2022-04-29 | 9196 | 47 | 1249 | 8932 | 985 |
 | 2022-04-28 | 9970 | 52 | 5487 | 9545 | 5062 |
 | 2022-04-27 | 9764 | 47 | 1292 | 9330 | 858 |
@@ -65,6 +66,7 @@ This project will be updated every day before Shanghai reopens. JSON files with 
 
 | Date | Total Cases  | Total Deaths | Case‑Fatality |
 | ---- | ---------- | ---------- | ---------- |
+| 2022-04-30 | 569878 | 397 | 0.0697% |
 | 2022-04-29 | 562689 | 359 | 0.0638% |
 | 2022-04-28 | 553493 | 312 | 0.0564% |
 | 2022-04-27 | 543523 | 260 | 0.0478% |
